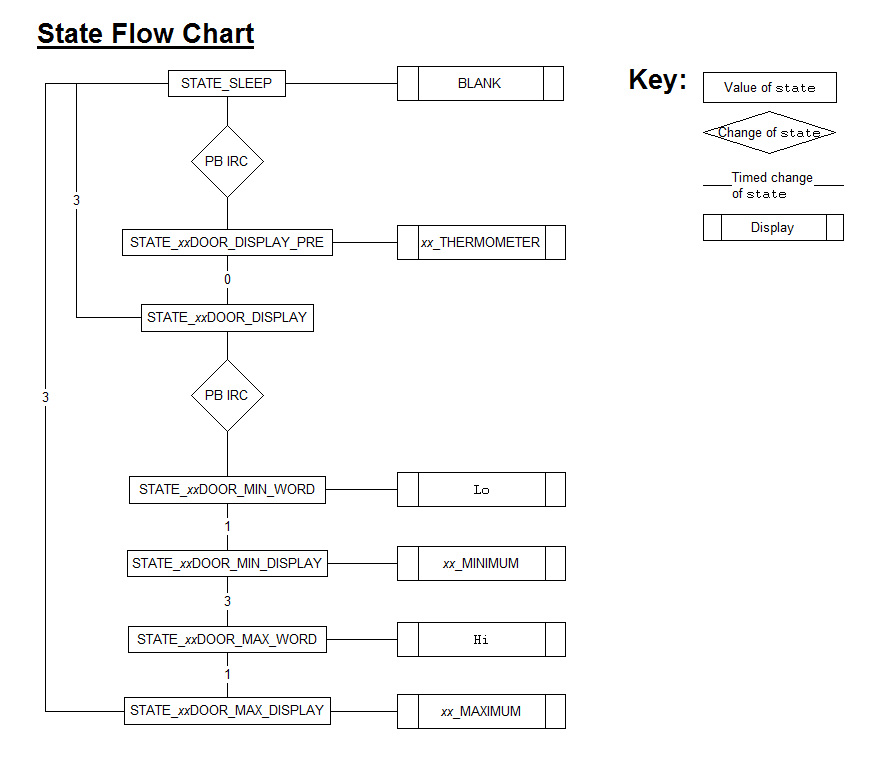
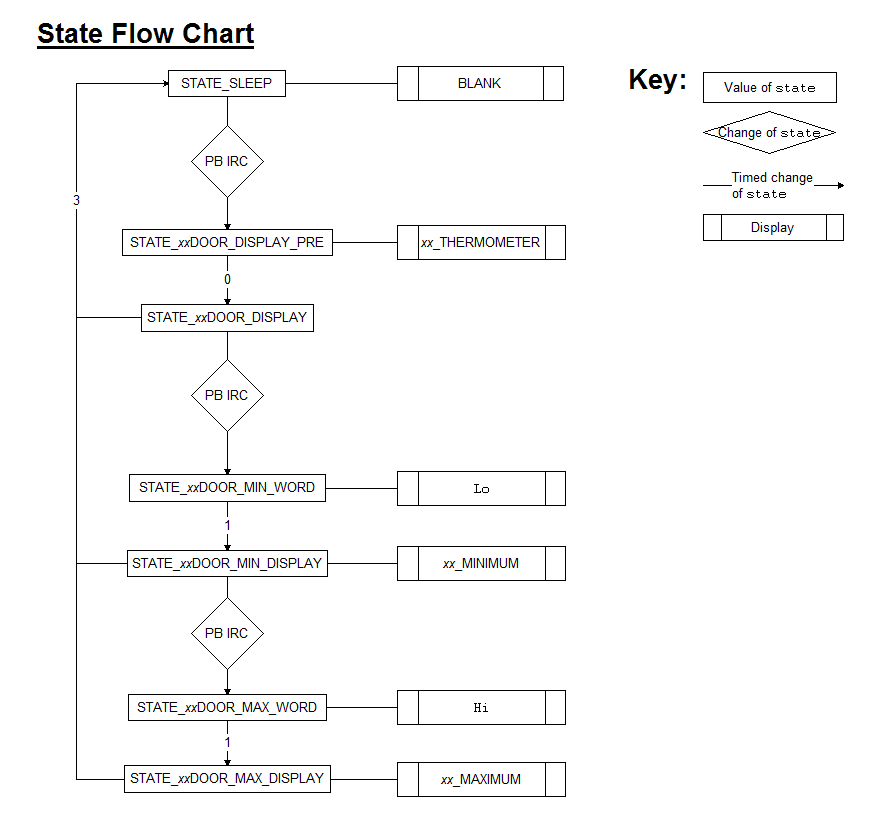
Documentation of calculations and new state flow

diff --git a/README.md b/README.md
@@ -9,7 +9,7 @@ Operation
 ---------
 The human interaction is through three seven segment displays and two push buttons.  The value of `DISP_TIME` is currently undecided, but will probably be about 3 seconds.
 
-Pressing a pushbutton and releasing will result in the relevant temperature for `DISP_TIME` seconds.  If the button is pressed again within that time, the minimum and then maximum for that thermometer will be displayed.  The flow is shown below
+Pressing a pushbutton and releasing will result in the relevant temperature for `DISP_TIME` seconds.  If the button is pressed again within that time, the minimum and then maximum (on another pushbutton press) for that thermometer will be displayed.  The flow is shown below
 
 <div style="text-align:center;padding:15px"><img alt="Flow of state" src="doc/state_flow.png" width="500px"></div>
 
@@ -25,3 +25,33 @@ The device is driven by 2 AA batteries.  As such, battery life is paramount.  Th
  * When the displays are not on and no reading is being taken, the microcontroller will be in "sleep mode".  This is an extremely low current draw mode.  Measurements were not accurate enough to determine actual current draw in sleep mode (noise was overriding).
 
 In order to have accurate minimum and maximum temperatures, the temperature must be taken every minute or so.  The watchdog timer is used to wake the microcontroller from sleep and take a reading every 64 seconds.
+
+Temperature Calculations
+------------------------
+
+The equations governing thermistors can be found [here](http://en.wikipedia.org/wiki/Thermistor).  In brief they state that
+
+    R = R_0 * exp(B * (1/T - 1/T_0))
+
+Where `R_0`, `B` and `T_0` are given.  For this particular thermistor (the NXRT15XH103FA1B040), the nominal values are
+
+    B   = 3380
+    T_0 = 298.15
+    R_0 = 10000
+
+This means that, in the range -50C to 60C, the resistance ranges from about 3k to 453k.  Our series resistor of 10k, means that our voltage divider gives fractions in the range 0.231 to 0.978.
+
+Reversing the above calculations, we see that
+
+    T = B / log(R / r_inf)
+
+where
+
+    r_inf = R_0 * exp (-B/T_0)
+
+which has a nomial value of 0.1186;
+
+The fact that all the constant roll into this `r_inf` and `B` means that we can store these values as a calibration constant.  Finally, to calculate the resistance, note that if `f` is the value from 0 to 1 returned by the ADC,
+
+    f = R / (R + R_ref)
+    R = f / (1-f) * R_ref
